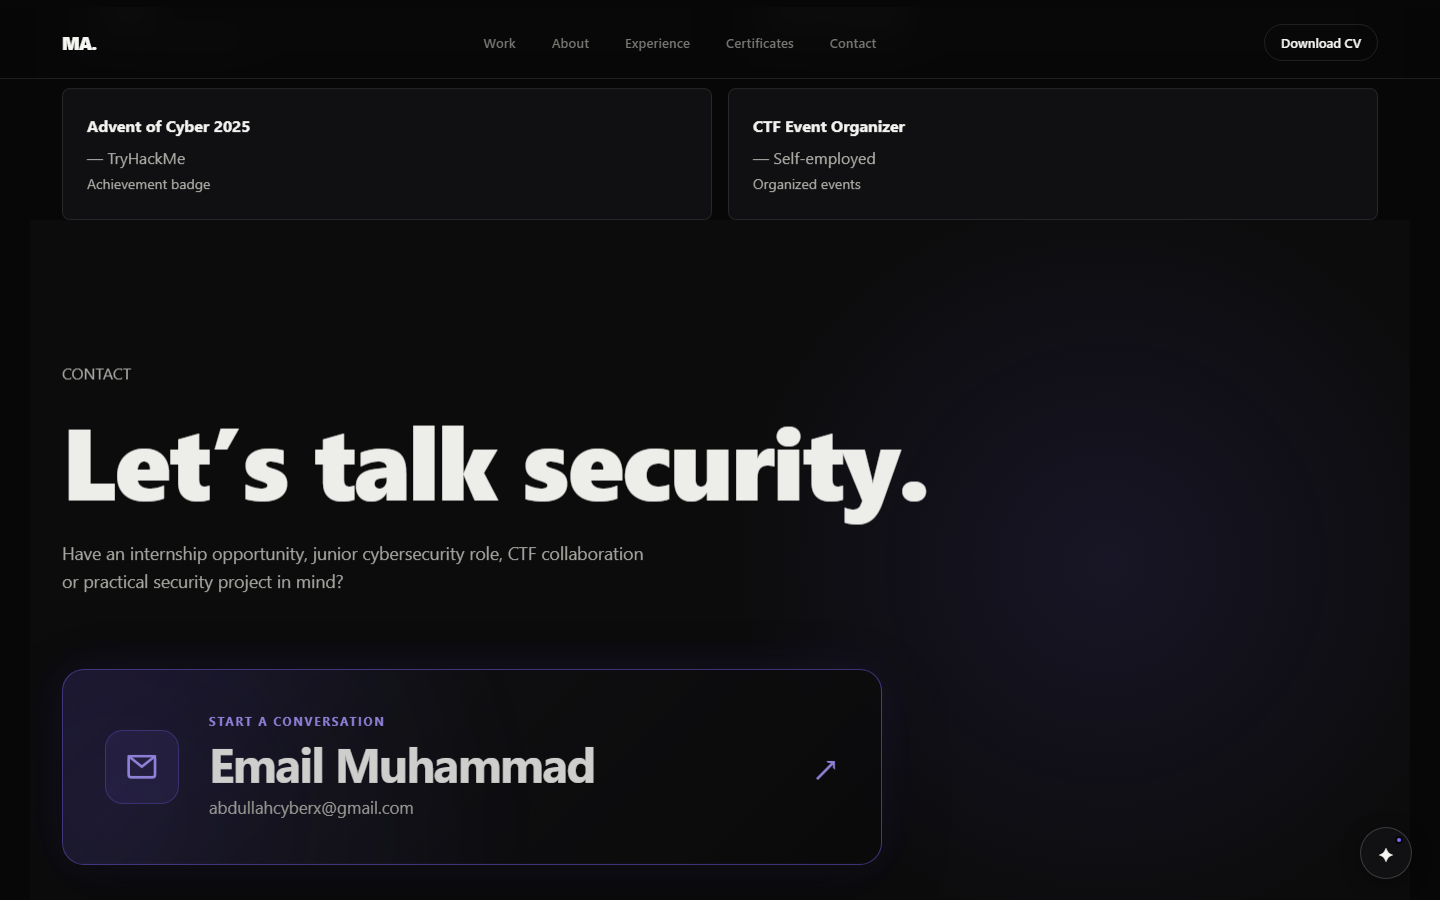
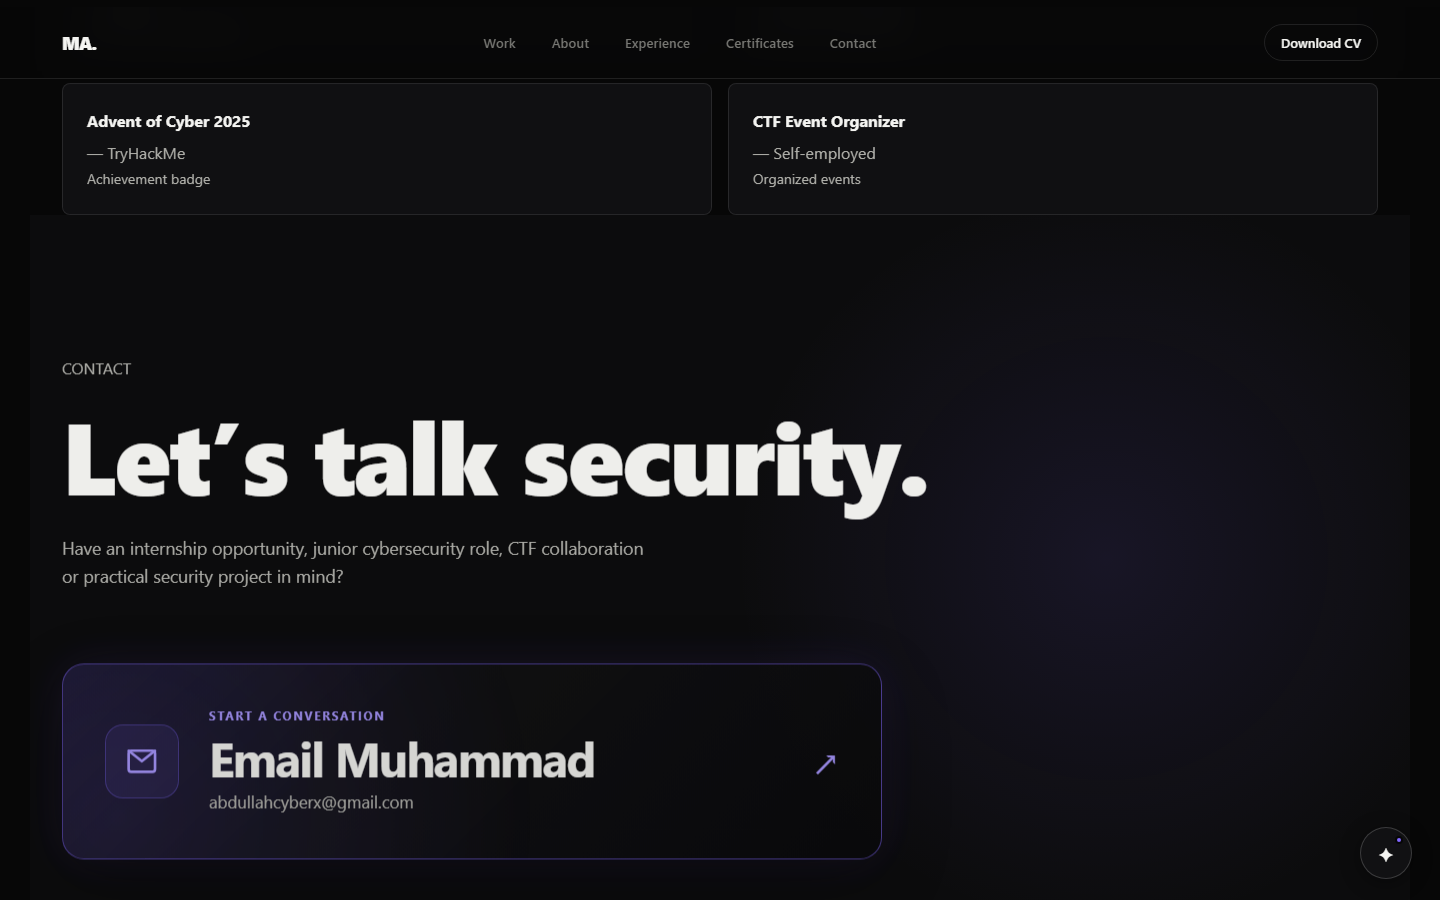
Prevent floating AI from covering mobile Gmail contact

diff --git a/src/style.css b/src/style.css
@@ -2307,12 +2307,21 @@ body.ai-open {
   .ai-float-btn {
     bottom: 20px;
     right: 20px;
-    transition: transform 300ms var(--ease);
+  }
+
+  [data-ai-open] {
+    transition:
+      opacity 220ms ease,
+      visibility 220ms ease,
+      transform 220ms ease;
   }
 
   body.contact-visible .ai-float-btn,
   body.contact-visible [data-ai-open] {
-    transform: translateY(-92px);
+    opacity: 0;
+    visibility: hidden;
+    pointer-events: none;
+    transform: translateY(16px);
   }
 
   footer {
